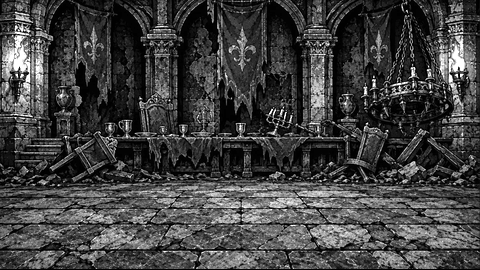
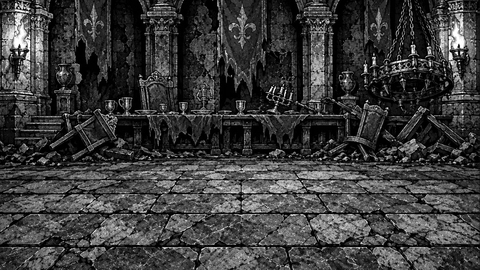
Parche 0.3.19: enemigos apoyados en el piso de Los Salones

diff --git a/js/juego.js b/js/juego.js
@@ -1153,7 +1153,7 @@ function dibujarCierre(c, k = clamp(Tr.t / Tr.cierre, 0, 1), rojo = Tr.rojo) {
 // Fondo pintado de cada zona; si no cargó, el procedural
 // por ahora todos los pisos pelean en el mismo escenario, pasado por la paleta de cada uno
 const FONDOS = { crypt: Object.assign(new Image(), { src: 'interfaz/batalla/cripta.png' }), castle: Object.assign(new Image(), { src: 'interfaz/batalla/salones.png' }) };
-const ANTORCHAS = { crypt: [[25, 77], [454, 77]], castle: [[19, 72], [458, 72]] };
+const ANTORCHAS = { crypt: [[25, 77], [454, 77]], castle: [[19, 48], [458, 48]] };
 // Dibujos propios de enemigos (campo "imagen" de enemigos.json); los demás usan el sprite del juego base
 const IMG_ENEMIGOS = {};
 for (const d of Object.values(D.enemigos)) if (d.imagen) IMG_ENEMIGOS[d.imagen] = Object.assign(new Image(), { src: tr('interfaz/enemigos/{0}.png', d.imagen) });

diff --git a/index.html b/index.html
@@ -22,7 +22,7 @@
     <img class="tfondo" src="interfaz/intro/velombra_apagada.png" alt="">
     <img class="t1" src="interfaz/logo.png" alt="The Last Flame">
     <div class="t2" data-tr="Un descenso a la Cripta de Vel’Ombra">Un descenso a la Cripta de Vel’Ombra</div>
-    <div class="tver">v0.3.18<span id="tPrueba"></span></div>
+    <div class="tver">v0.3.19<span id="tPrueba"></span></div>
     <div class="t4" data-kb="WASD / flechas: moverse · Q E: girar · Enter: interactuar · I: inventario · P: poción · O: aceite · F11: pantalla completa">WASD / flechas: moverse · Q E: girar · Enter: interactuar · I: inventario · P: poción · O: aceite · F11: pantalla completa</div>
   </div>
 
